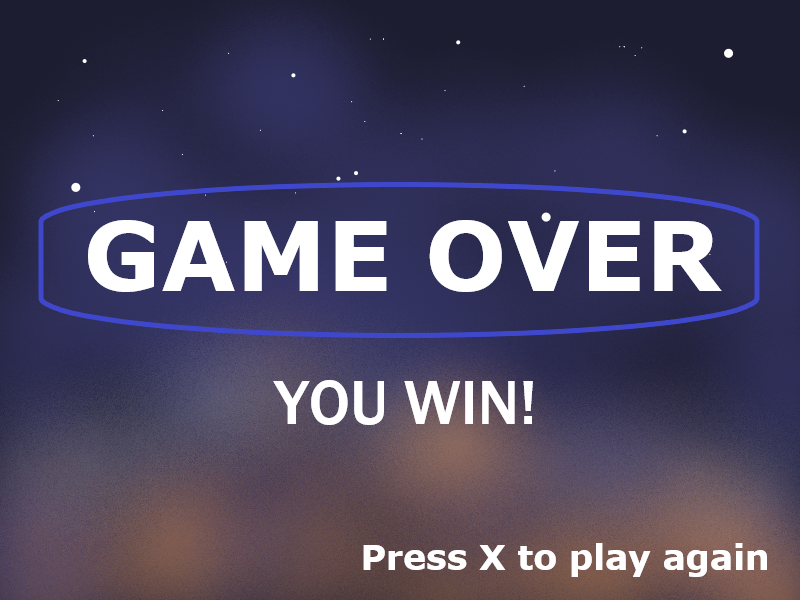
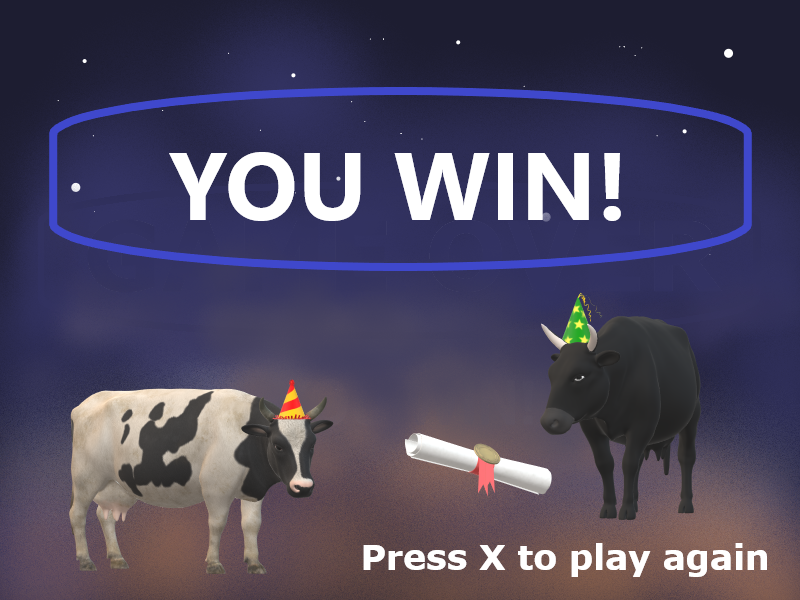
Added moo sfx, changed win page

Changed region(s): [[0.0312, 0.12, 0.9688, 0.96]]

diff --git a/Bulls-and-Cows/MainGame.java b/Bulls-and-Cows/MainGame.java
@@ -10,6 +10,7 @@ import java.util.ArrayList;
 public class MainGame extends World
 {
     GreenfootSound backgroundMusic = new GreenfootSound("Frog in the Well.mp3");
+    GreenfootSound moo = new GreenfootSound("moo.mp3");
     //Counter for number of tries
     private static final int COUNTER = 10;
     //User guess
@@ -29,6 +30,9 @@ public class MainGame extends World
     private String keyStateOld;
     private String keyStateNew;
 
+    private int newBulls;
+    private int newCows;
+
     private boolean enterDown;
 
     //Queue to store player's previous guesses
@@ -47,6 +51,7 @@ public class MainGame extends World
 
         backgroundMusic.setVolume(30);
         backgroundMusic.play(); // Playing background music.
+        moo.setVolume(30);
 
         ArrayList<String> myList = new ArrayList<String>();
         try{
@@ -57,7 +62,6 @@ public class MainGame extends World
         counter = COUNTER;
 
         counter = Math.max(0,counter);
-
     }
 
     public String returnGuess(){
@@ -92,8 +96,6 @@ public class MainGame extends World
         //Checks user input periodically
         userInput = Greenfoot.getKey();
 
-        bulls = 0;
-        cows = 0;
         Integer theCounter = new Integer(counter);
         if(counter >0)
         {
@@ -141,31 +143,44 @@ public class MainGame extends World
         if (enterDown != Greenfoot.isKeyDown("enter")){
             enterDown = !enterDown;
             if (enterDown){
-                displayPreviousBullsAndCows();
+
+
+
                 checkBullsAndCows();
+                newBulls = bulls;
+                newCows = cows;
                 displayCurrentBullsAndCows();
+                displayPreviousBullsAndCows();
+                bulls = 0;
+                cows = 0;
+
+
                 clearScreen();
                 counter--;
-                
+                moo.play();
             }
-        }// record change
+        } // record change
         if(counter == 0) //Player loses
         {
             backgroundMusic.stop(); // Stopping music.
             Greenfoot.setWorld(new LosePage());
         }
-        else if(bulls == 4)
+        else if(bulls == 4) //Player wins
         {
             backgroundMusic.stop(); // Stopping music.
-            Greenfoot.setWorld(new WinPage());
+            Greenfoot.setWorld(new LosePage());
         }
+
     }
 
+    /**
+     * Removes all letters from guesses off of screen.
+     */
     public void clearScreen(){
-        removeObjects(getObjectsAt(330, 470,null));
-        removeObjects(getObjectsAt(430, 470,null));
-        removeObjects(getObjectsAt(530, 470,null));
-        removeObjects(getObjectsAt(630, 470,null));
+        removeObjects(getObjectsAt(330, 470, null));
+        removeObjects(getObjectsAt(430, 470, null));
+        removeObjects(getObjectsAt(530, 470, null));
+        removeObjects(getObjectsAt(630, 470, null));
     }
 
     /**
@@ -181,16 +196,15 @@ public class MainGame extends World
             if (!guess.isEmpty()){
                 currentLetter = guess.pop();
             }
-            if(currentLetter != theWord.charAt(i) && theWord.contains(Character.toString(currentLetter)))
+            if(currentLetter != theWord.charAt(i-1) && theWord.contains(Character.toString(currentLetter)))
             {
                 cows++;
             }
-           
-            else if(currentLetter == theWord.charAt(i))
+            else if(currentLetter == theWord.charAt(i-1))
             {
                 bulls++;
             }
-            else if(currentLetter != theWord.charAt(i))
+            else if(currentLetter != theWord.charAt(i-1))
             {
                 correct = false;
             }
@@ -199,12 +213,12 @@ public class MainGame extends World
     }
 
     /**
-     * Displays number of bulls and cows for currernt guess.
+     * Displays number of bulls and cows for current guess.
      */
     public void displayCurrentBullsAndCows()
     {
-        Integer theBulls = new Integer(bulls);
-        Integer theCows = new Integer(cows);
+        Integer theBulls = new Integer(newBulls);
+        Integer theCows = new Integer(newCows);
         addObject(new Text(theBulls.toString(), 40, 0, 0, 0, 255, 255, 255), 356, 385);
         addObject(new Text(theCows.toString(), 40, 0, 0, 0, 255, 255, 255), 630, 385);
     }
@@ -214,8 +228,8 @@ public class MainGame extends World
      */
     public void displayPreviousBullsAndCows()
     {
-        Integer theBulls = new Integer(bulls);
-        Integer theCows = new Integer(cows);
+        Integer theBulls = new Integer(newBulls);
+        Integer theCows = new Integer(newCows);
 
         String text = "";
         for(Character c: guess)

diff --git a/Bulls-and-Cows/Reader.java b/Bulls-and-Cows/Reader.java
@@ -3,7 +3,7 @@ import java.io.*;
 import java.util.ArrayList;
 
 public class Reader {
-    static String url = "https://raw.githubusercontent.com/first20hours/google-10000-english/master/google-10000-english-no-swears.txt";
+    static String url = "https://gist.githubusercontent.com/valeriesum/99c5cc34b4c350557884b857431532b3/raw/65f230a253be6fe642e986d87def1d758b3cbcd3/4%2520letter%2520isogram";
     public static void readInto(ArrayList<String> list) throws Exception {
         URL wordsURL = new URL(url);
         BufferedReader in = new BufferedReader(
